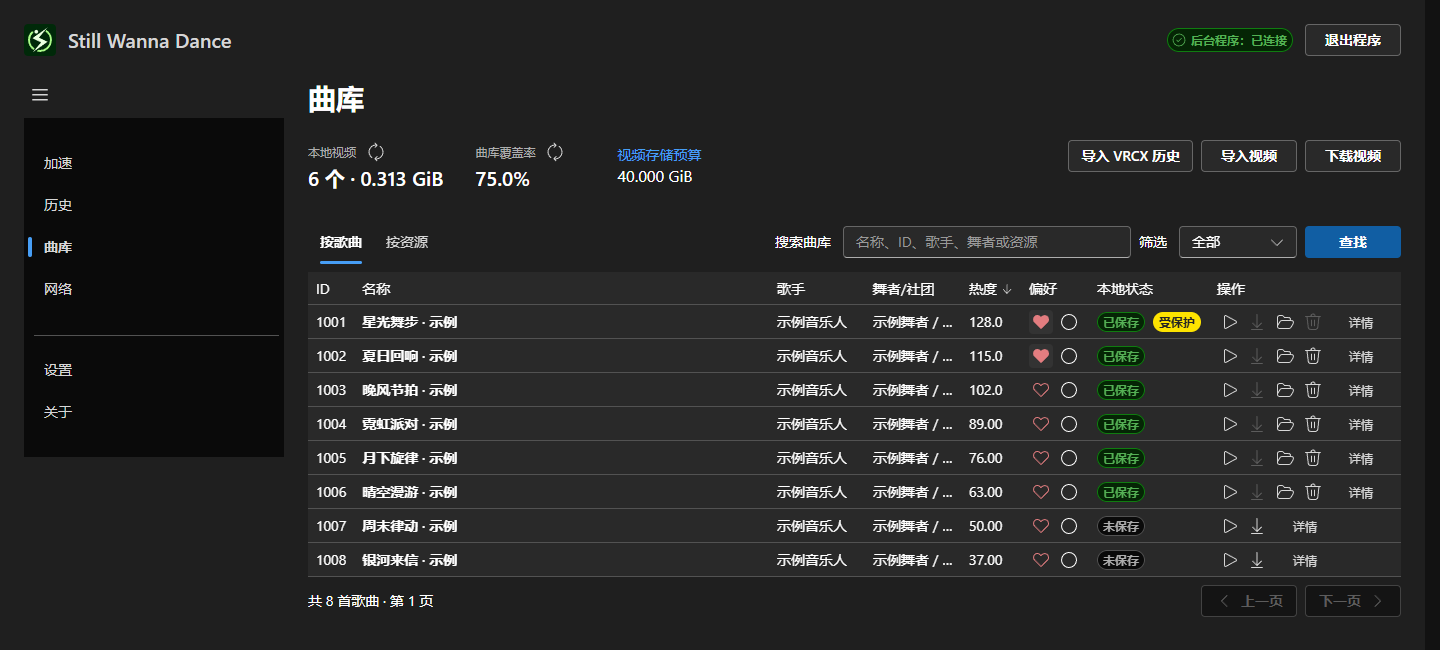
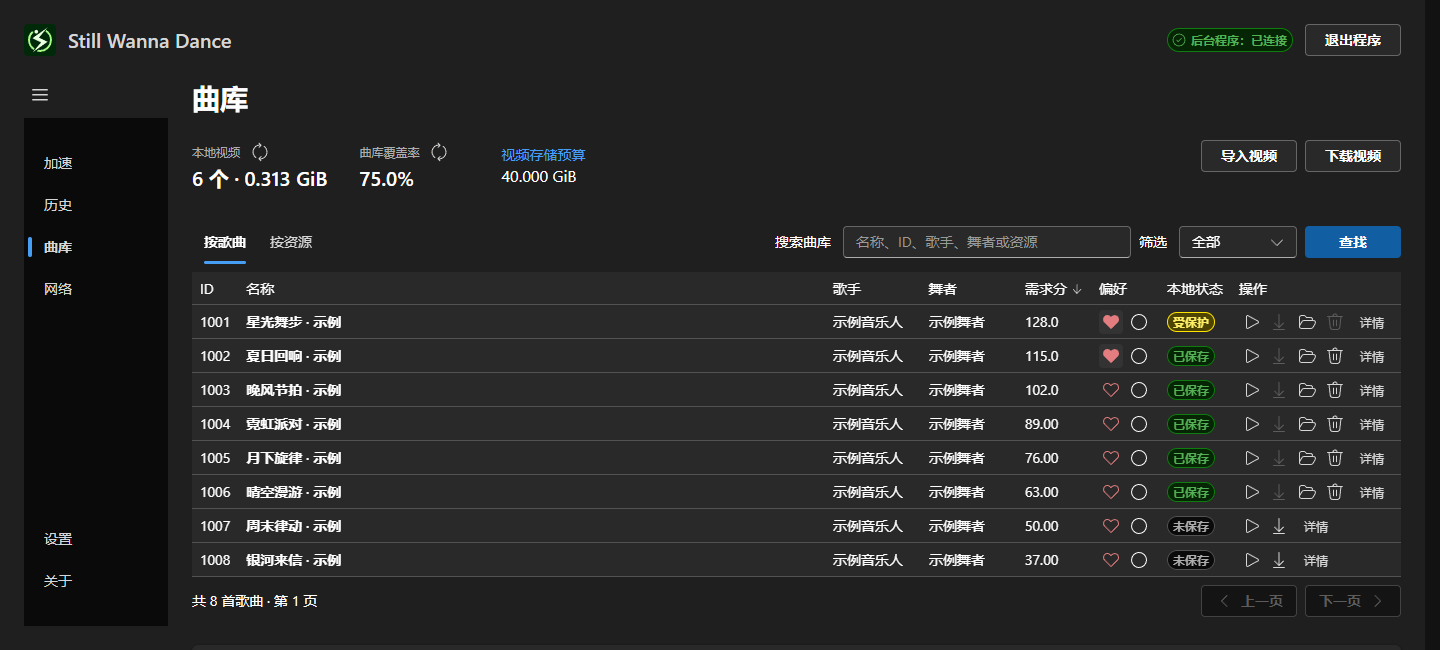
docs: refresh README screenshots for current WebUI

diff --git a/README.en.md b/README.en.md
@@ -39,7 +39,7 @@ A **[global block scheduler driven by playback timing](docs/block-scheduler-desi
 
 **Acceleration: connection status, download progress, and upcoming video demands.**
 
-![Dark WebUI acceleration page showing connection status, a block timeline, and four playback and queue demands](docs/images/webui-acceleration.png)
+![Dark WebUI acceleration page showing upstream and game connections, a layered block timeline, playback and queue demands, and a manual download without a deadline](docs/images/webui-acceleration.png)
 
 <details>
 <summary>More screenshots: library and storage settings</summary>
@@ -48,9 +48,9 @@ A **[global block scheduler driven by playback timing](docs/block-scheduler-desi
 
 ![Dark WebUI library page showing song search, favorites, local availability, and per-song actions](docs/images/webui-library.png)
 
-**Storage settings: video location, budget, and favorite retention.**
+**Storage settings: manage video locations, estimate request coverage for your budget, and prioritize keeping favorites.**
 
-![Dark WebUI storage settings showing database and video locations, budget, and retention options](docs/images/webui-settings-dark.png)
+![Dark WebUI storage settings showing database and video locations, a storage budget with estimated request coverage, and priority retention for favorites](docs/images/webui-settings-dark.png)
 
 </details>
 
